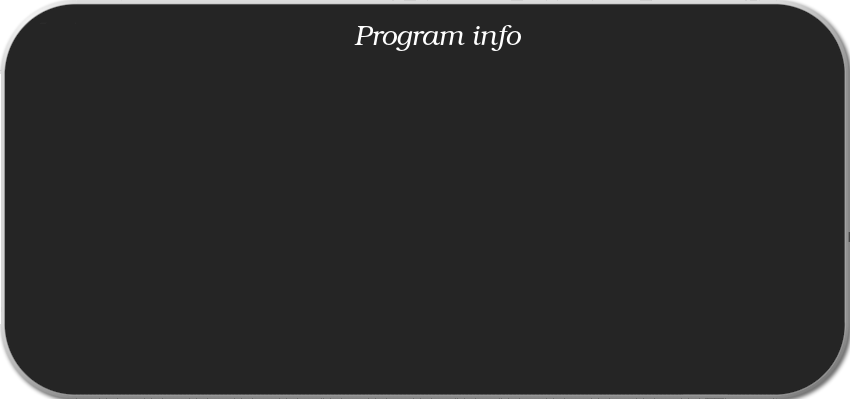
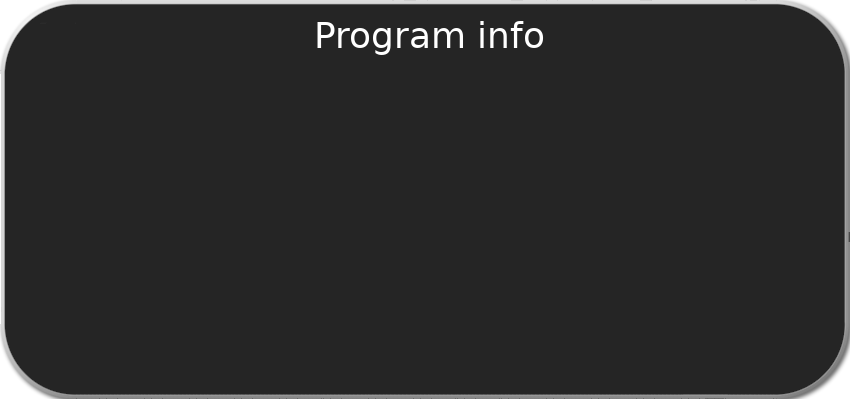
gfx updadte

Changed region(s): [[0.3671, 0.06, 0.6424, 0.15]]

diff --git a/main.cpp b/main.cpp
@@ -1106,9 +1106,10 @@ int parse_config(char *filename) {
                       if (strcmp(value,"true")==0) full_screen=true; else full_screen=false;
                     } else if (command_nr==setconfigdefaultmusicpath) {
                       strcpy(configdefaultmusicpath,value);
+                      strcpy(configmusicpath,value);
                     } else if (command_nr==setconfigdefaultmoviepath) {
                       strcpy(configdefaultmoviepath,value);
-                      strcpy(configmoviepath,configdefaultmoviepath);
+                      strcpy(configmoviepath,value);
                     }
 
                     // use 3d effect
@@ -2224,6 +2225,7 @@ void display() {
     static int starttimer=0;                                     // show logo timeout
     bool do_play_music_aktiv_nr_select_array[1000];             // array til at fortælle om sange i playlist askopendir er aktiv
     char temptxt[200];
+    char temprgtxt[2000];
     int i;
     struct tm *timeinfo;
     float mgrader,tgrader;
@@ -2818,7 +2820,7 @@ void display() {
         aktiv_tv_oversigt.show_fasttv_oversigt(tvvalgtrecordnr,tvsubvalgtrecordnr,do_update_xmltv_show);
 
 //        if (debugmode & 1 ) std::cout << "Time: " << (std::clock() - start) / (double)(CLOCKS_PER_SEC / 1000) << " ms" << " " << sizeof(tv_oversigt) << std::endl;
-        // show program info about selected program
+        // show tv program info about selected program
         if ((do_zoom_tvprg_aktiv_nr)>0) {
           glPushMatrix();
           // show info om program selected
@@ -2843,180 +2845,197 @@ void display() {
           glTexParameteri(GL_TEXTURE_2D, GL_TEXTURE_MAG_FILTER, GL_LINEAR);
           glColor3f(1.0f, 1.0f, 1.0f);
           //glBlendFunc(GL_ONE, GL_ONE);
+          glEnable(GL_BLEND);
           glBlendFunc(GL_SRC_ALPHA,GL_ONE_MINUS_SRC_ALPHA);
           glLoadName(81);
           glBegin(GL_QUADS);
           glTexCoord2f(0, 0); glVertex3f((orgwinsizex/3)+0, (orgwinsizey/4)+0, 0.0);
-          glTexCoord2f(0, 1); glVertex3f((orgwinsizex/3)+0, (orgwinsizey/4)+500, 0.0);
-          glTexCoord2f(1, 1); glVertex3f((orgwinsizex/3)+850, (orgwinsizey/4)+500, 0.0);
+          glTexCoord2f(0, 1); glVertex3f((orgwinsizex/3)+0, (orgwinsizey/4)+400, 0.0);
+          glTexCoord2f(1, 1); glVertex3f((orgwinsizex/3)+850, (orgwinsizey/4)+400, 0.0);
           glTexCoord2f(1, 0); glVertex3f((orgwinsizex/3)+850, (orgwinsizey/4)+0, 0.0);
           glEnd();
           glPopMatrix();
 
           glPushMatrix();
           switch (configland) {
-            case 0: sprintf(temptxt,"Channel  : %-10s",aktiv_tv_oversigt.tvkanaler[tvvalgtrecordnr].chanel_name);
+            case 0: snprintf(temprgtxt,65,"Channel  : %-10s",aktiv_tv_oversigt.tvkanaler[tvvalgtrecordnr].chanel_name);
                     break;
-            case 1: sprintf(temptxt,"Kanal    : %-10s",aktiv_tv_oversigt.tvkanaler[tvvalgtrecordnr].chanel_name);
+            case 1: snprintf(temprgtxt,65,"Kanal    : %-10s",aktiv_tv_oversigt.tvkanaler[tvvalgtrecordnr].chanel_name);
                     break;
-            case 2: sprintf(temptxt,"Channel  : %-10s",aktiv_tv_oversigt.tvkanaler[tvvalgtrecordnr].chanel_name);
+            case 2: snprintf(temprgtxt,65,"Channel  : %-10s",aktiv_tv_oversigt.tvkanaler[tvvalgtrecordnr].chanel_name);
                     break;
-            case 3: sprintf(temptxt,"Channel  : %-10s",aktiv_tv_oversigt.tvkanaler[tvvalgtrecordnr].chanel_name);
+            case 3: snprintf(temprgtxt,65,"Channel  : %-10s",aktiv_tv_oversigt.tvkanaler[tvvalgtrecordnr].chanel_name);
                     break;
-            case 4: sprintf(temptxt,"Channel  : %-10s",aktiv_tv_oversigt.tvkanaler[tvvalgtrecordnr].chanel_name);
-                    break;
-            default:
-                    sprintf(temptxt,"Channel  : %-10s",aktiv_tv_oversigt.tvkanaler[tvvalgtrecordnr].chanel_name);
-          }
-          glTranslatef(700,675, 0.0f);
-          glScalef(20.0, 20.0,1);
-          glBlendFunc(GL_ONE, GL_ONE);
-          glDisable(GL_TEXTURE_2D);
-          glcRenderString(temptxt);
-          glPopMatrix();
-
-          glPushMatrix();
-          switch (configland) {
-            case 0: sprintf(temptxt,"Prg name : %-20s",aktiv_tv_oversigt.tvkanaler[tvvalgtrecordnr].tv_prog_guide[tvsubvalgtrecordnr].program_navn);
-                    break;
-            case 1: sprintf(temptxt,"Prg navn : %-20s",aktiv_tv_oversigt.tvkanaler[tvvalgtrecordnr].tv_prog_guide[tvsubvalgtrecordnr].program_navn);
-                    break;
-            case 2: sprintf(temptxt,"Prg name : %-20s",aktiv_tv_oversigt.tvkanaler[tvvalgtrecordnr].tv_prog_guide[tvsubvalgtrecordnr].program_navn);
-                    break;
-            case 3: sprintf(temptxt,"Prg name : %-20s",aktiv_tv_oversigt.tvkanaler[tvvalgtrecordnr].tv_prog_guide[tvsubvalgtrecordnr].program_navn);
-                    break;
-            case 4: sprintf(temptxt,"Prg name : %-20s",aktiv_tv_oversigt.tvkanaler[tvvalgtrecordnr].tv_prog_guide[tvsubvalgtrecordnr].program_navn);
+            case 4: snprintf(temprgtxt,65,"Channel  : %-10s",aktiv_tv_oversigt.tvkanaler[tvvalgtrecordnr].chanel_name);
                     break;
             default:
-                  sprintf(temptxt,"Prg name : %-20s",aktiv_tv_oversigt.tvkanaler[tvvalgtrecordnr].tv_prog_guide[tvsubvalgtrecordnr].program_navn);
-          }
-          glTranslatef(700,625, 0.0f);
-          glScalef(20.0, 20.0,1);
-          glBlendFunc(GL_ONE, GL_ONE);
-          glDisable(GL_TEXTURE_2D);
-          glcRenderString(temptxt);
-          glPopMatrix();
-
-          glPushMatrix();
-          switch (configland) {
-            case 0: sprintf(temptxt,"Start    : %10s",aktiv_tv_oversigt.tvkanaler[tvvalgtrecordnr].tv_prog_guide[tvsubvalgtrecordnr].starttime);
-                    break;
-            case 1: sprintf(temptxt,"Start    : %10s",aktiv_tv_oversigt.tvkanaler[tvvalgtrecordnr].tv_prog_guide[tvsubvalgtrecordnr].starttime);
-                    break;
-            case 2: sprintf(temptxt,"début    : %10s",aktiv_tv_oversigt.tvkanaler[tvvalgtrecordnr].tv_prog_guide[tvsubvalgtrecordnr].starttime);
-                    break;
-            case 3: sprintf(temptxt,"Start    : %10s",aktiv_tv_oversigt.tvkanaler[tvvalgtrecordnr].tv_prog_guide[tvsubvalgtrecordnr].starttime);
-                    break;
-            case 4: sprintf(temptxt,"Start    : %10s",aktiv_tv_oversigt.tvkanaler[tvvalgtrecordnr].tv_prog_guide[tvsubvalgtrecordnr].starttime);
-                    break;
-            default:sprintf(temptxt,"Start    : %10s",aktiv_tv_oversigt.tvkanaler[tvvalgtrecordnr].tv_prog_guide[tvsubvalgtrecordnr].starttime);
-
-          }
-          glTranslatef(700,600, 0.0f);
-          glScalef(20.0, 20.0,1);
-          glBlendFunc(GL_ONE, GL_ONE);
-          glDisable(GL_TEXTURE_2D);
-          glcRenderString(temptxt);
-          glPopMatrix();
-
-
-          glPushMatrix();
-          switch (configland) {
-            case 0: sprintf(temptxt,"Length   : %d min.",aktiv_tv_oversigt.tvkanaler[tvvalgtrecordnr].tv_prog_guide[tvsubvalgtrecordnr].program_length_minuter);
-                    break;
-            case 1: sprintf(temptxt,"Længde   : %d min.",aktiv_tv_oversigt.tvkanaler[tvvalgtrecordnr].tv_prog_guide[tvsubvalgtrecordnr].program_length_minuter);
-                    break;
-            case 2: sprintf(temptxt,"durée du : %d min.",aktiv_tv_oversigt.tvkanaler[tvvalgtrecordnr].tv_prog_guide[tvsubvalgtrecordnr].program_length_minuter);
-                    break;
-            case 3: sprintf(temptxt,"Programmlänge : %d min.",aktiv_tv_oversigt.tvkanaler[tvvalgtrecordnr].tv_prog_guide[tvsubvalgtrecordnr].program_length_minuter);
-                    break;
-            case 4: sprintf(temptxt,"Length   : %d min.",aktiv_tv_oversigt.tvkanaler[tvvalgtrecordnr].tv_prog_guide[tvsubvalgtrecordnr].program_length_minuter);
-                    break;
-            default:
-                    sprintf(temptxt,"Length   : %d min.",aktiv_tv_oversigt.tvkanaler[tvvalgtrecordnr].tv_prog_guide[tvsubvalgtrecordnr].program_length_minuter);
+                    sprintf(temprgtxt,"Channel  : %-10s",aktiv_tv_oversigt.tvkanaler[tvvalgtrecordnr].chanel_name);
           }
           glTranslatef(700,575, 0.0f);
           glScalef(20.0, 20.0,1);
           glBlendFunc(GL_ONE, GL_ONE);
           glDisable(GL_TEXTURE_2D);
-          glcRenderString(temptxt);
+          glcRenderString(temprgtxt);
+          glPopMatrix();
+
+          glPushMatrix();
+          switch (configland) {
+            case 0: snprintf(temprgtxt,65,"Prg name : %-20s",aktiv_tv_oversigt.tvkanaler[tvvalgtrecordnr].tv_prog_guide[tvsubvalgtrecordnr].program_navn);
+                    break;
+            case 1: snprintf(temprgtxt,65,"Prg navn : %-20s",aktiv_tv_oversigt.tvkanaler[tvvalgtrecordnr].tv_prog_guide[tvsubvalgtrecordnr].program_navn);
+                    break;
+            case 2: snprintf(temprgtxt,65,"Prg name : %-20s",aktiv_tv_oversigt.tvkanaler[tvvalgtrecordnr].tv_prog_guide[tvsubvalgtrecordnr].program_navn);
+                    break;
+            case 3: snprintf(temprgtxt,65,"Prg name : %-20s",aktiv_tv_oversigt.tvkanaler[tvvalgtrecordnr].tv_prog_guide[tvsubvalgtrecordnr].program_navn);
+                    break;
+            case 4: snprintf(temprgtxt,65,"Prg name : %-20s",aktiv_tv_oversigt.tvkanaler[tvvalgtrecordnr].tv_prog_guide[tvsubvalgtrecordnr].program_navn);
+                    break;
+            default:
+                  snprintf(temprgtxt,65,"Prg name : %-20s",65,aktiv_tv_oversigt.tvkanaler[tvvalgtrecordnr].tv_prog_guide[tvsubvalgtrecordnr].program_navn);
+          }
+          glTranslatef(700,525, 0.0f);
+          glScalef(20.0, 20.0,1);
+          glBlendFunc(GL_ONE, GL_ONE);
+          glDisable(GL_TEXTURE_2D);
+          glcRenderString(temprgtxt);
+          glPopMatrix();
+
+          glPushMatrix();
+          switch (configland) {
+            case 0: snprintf(temprgtxt,65,"Start    : %10s",aktiv_tv_oversigt.tvkanaler[tvvalgtrecordnr].tv_prog_guide[tvsubvalgtrecordnr].starttime);
+                    break;
+            case 1: snprintf(temprgtxt,65,"Start    : %10s",aktiv_tv_oversigt.tvkanaler[tvvalgtrecordnr].tv_prog_guide[tvsubvalgtrecordnr].starttime);
+                    break;
+            case 2: snprintf(temprgtxt,65,"début    : %10s",aktiv_tv_oversigt.tvkanaler[tvvalgtrecordnr].tv_prog_guide[tvsubvalgtrecordnr].starttime);
+                    break;
+            case 3: snprintf(temprgtxt,65,"Start    : %10s",aktiv_tv_oversigt.tvkanaler[tvvalgtrecordnr].tv_prog_guide[tvsubvalgtrecordnr].starttime);
+                    break;
+            case 4: snprintf(temprgtxt,65,"Start    : %10s",aktiv_tv_oversigt.tvkanaler[tvvalgtrecordnr].tv_prog_guide[tvsubvalgtrecordnr].starttime);
+                    break;
+            default:snprintf(temprgtxt,65,"Start    : %10s",aktiv_tv_oversigt.tvkanaler[tvvalgtrecordnr].tv_prog_guide[tvsubvalgtrecordnr].starttime);
+
+          }
+          glTranslatef(700,500, 0.0f);
+          glScalef(20.0, 20.0,1);
+          glBlendFunc(GL_ONE, GL_ONE);
+          glDisable(GL_TEXTURE_2D);
+          glcRenderString(temprgtxt);
+          glPopMatrix();
+
+
+          glPushMatrix();
+          switch (configland) {
+            case 0: snprintf(temprgtxt,65,"Length   : %d min.",aktiv_tv_oversigt.tvkanaler[tvvalgtrecordnr].tv_prog_guide[tvsubvalgtrecordnr].program_length_minuter);
+                    break;
+            case 1: snprintf(temprgtxt,65,"Længde   : %d min.",aktiv_tv_oversigt.tvkanaler[tvvalgtrecordnr].tv_prog_guide[tvsubvalgtrecordnr].program_length_minuter);
+                    break;
+            case 2: snprintf(temprgtxt,65,"durée du : %d min.",aktiv_tv_oversigt.tvkanaler[tvvalgtrecordnr].tv_prog_guide[tvsubvalgtrecordnr].program_length_minuter);
+                    break;
+            case 3: snprintf(temprgtxt,65,"Programmlänge : %d min.",aktiv_tv_oversigt.tvkanaler[tvvalgtrecordnr].tv_prog_guide[tvsubvalgtrecordnr].program_length_minuter);
+                    break;
+            case 4: snprintf(temprgtxt,65,"Length   : %d min.",aktiv_tv_oversigt.tvkanaler[tvvalgtrecordnr].tv_prog_guide[tvsubvalgtrecordnr].program_length_minuter);
+                    break;
+            default:
+                    snprintf(temprgtxt,65,"Length   : %d min.",aktiv_tv_oversigt.tvkanaler[tvvalgtrecordnr].tv_prog_guide[tvsubvalgtrecordnr].program_length_minuter);
+          }
+          glTranslatef(700,475, 0.0f);
+          glScalef(20.0, 20.0,1);
+          glBlendFunc(GL_ONE, GL_ONE);
+          glDisable(GL_TEXTURE_2D);
+          glcRenderString(temprgtxt);
           glPopMatrix();
 
 
           glPushMatrix();
           if (antalrec==-1) antalrec=aktiv_tv_oversigt.tvprgrecordedbefore(aktiv_tv_oversigt.tvkanaler[tvvalgtrecordnr].tv_prog_guide[tvsubvalgtrecordnr].program_navn,aktiv_tv_oversigt.tvkanaler[tvvalgtrecordnr].chanid);
           switch (configland) {
-            case 0: sprintf(temptxt,"recorded : %d times before.",antalrec);
+            case 0: snprintf(temprgtxt,65,"Recorded : %d times before.",antalrec);
                     break;
-            case 1: sprintf(temptxt,"optaget  : %d gange før.",antalrec);
+            case 1: snprintf(temprgtxt,65,"Optaget  : %d gange før.",antalrec);
                     break;
-            case 2: sprintf(temptxt,"recorded : %d times before.",antalrec);
+            case 2: snprintf(temprgtxt,65,"Recorded : %d times before.",antalrec);
                     break;
-            case 3: sprintf(temptxt,"recorded : %d times before.",antalrec);
+            case 3: snprintf(temprgtxt,65,"Recorded : %d times before.",antalrec);
                     break;
-            case 4: sprintf(temptxt,"recorded : %d times before.",antalrec);
+            case 4: snprintf(temprgtxt,65,"Recorded : %d times before.",antalrec);
                     break;
-            default: sprintf(temptxt,"recorded : %d times before.",antalrec);
+            default: snprintf(temprgtxt,65,"Recorded : %d times before.",antalrec);
 
           }
-          if (aktiv_tv_oversigt.tvkanaler[tvvalgtrecordnr].tv_prog_guide[tvsubvalgtrecordnr].recorded) strcat(temptxt," Set to record");
-          glTranslatef(700,550, 0.0f);
+          if (aktiv_tv_oversigt.tvkanaler[tvvalgtrecordnr].tv_prog_guide[tvsubvalgtrecordnr].recorded) strcat(temprgtxt," Set to record");
+          glTranslatef(700,450, 0.0f);
           glScalef(20.0, 20.0,1);
           glBlendFunc(GL_ONE, GL_ONE);
           glDisable(GL_TEXTURE_2D);
-          glcRenderString(temptxt);
+          glcRenderString(temprgtxt);
           glPopMatrix();
 
 
 
           glPushMatrix();
           if (aktiv_tv_oversigt.tvkanaler[tvvalgtrecordnr].tv_prog_guide[tvsubvalgtrecordnr].prg_type<=10)
-          sprintf(temptxt,"Type     : %-10s",prgtypee[aktiv_tv_oversigt.tvkanaler[tvvalgtrecordnr].tv_prog_guide[tvsubvalgtrecordnr].prg_type]);
-          else sprintf(temptxt,"Type     : %d nr  ",aktiv_tv_oversigt.tvkanaler[tvvalgtrecordnr].tv_prog_guide[tvsubvalgtrecordnr].prg_type);
-          glTranslatef(700,525, 0.0f);
+          sprintf(temprgtxt,"Type     : %-10s",prgtypee[aktiv_tv_oversigt.tvkanaler[tvvalgtrecordnr].tv_prog_guide[tvsubvalgtrecordnr].prg_type]);
+          else sprintf(temprgtxt,"Type     : %d nr  ",aktiv_tv_oversigt.tvkanaler[tvvalgtrecordnr].tv_prog_guide[tvsubvalgtrecordnr].prg_type);
+          glTranslatef(700,425, 0.0f);
           glScalef(20.0, 20.0,1);
           glBlendFunc(GL_ONE, GL_ONE);
           glDisable(GL_TEXTURE_2D);
-          glcRenderString(temptxt);
+          glcRenderString(temprgtxt);
           glPopMatrix();
 
           glPushMatrix();
           switch (configland) {
-            case 0: sprintf(temptxt,"Description : %s",aktiv_tv_oversigt.tvkanaler[tvvalgtrecordnr].tv_prog_guide[tvsubvalgtrecordnr].description);
+            case 0: sprintf(temprgtxt,"Description : ");
                     break;
-            case 1: sprintf(temptxt,"Beskrivelse : %s",aktiv_tv_oversigt.tvkanaler[tvvalgtrecordnr].tv_prog_guide[tvsubvalgtrecordnr].description);
+            case 1: sprintf(temprgtxt,"Beskrivelse : ");
                     break;
-            case 2: sprintf(temptxt,"Description : %s",aktiv_tv_oversigt.tvkanaler[tvvalgtrecordnr].tv_prog_guide[tvsubvalgtrecordnr].description);
+            case 2: sprintf(temprgtxt,"Description : ");
                     break;
-            case 3: sprintf(temptxt,"Description : %s",aktiv_tv_oversigt.tvkanaler[tvvalgtrecordnr].tv_prog_guide[tvsubvalgtrecordnr].description);
+            case 3: sprintf(temprgtxt,"Description : ");
                     break;
-            case 4: sprintf(temptxt,"Description : %s",aktiv_tv_oversigt.tvkanaler[tvvalgtrecordnr].tv_prog_guide[tvsubvalgtrecordnr].description);
+            case 4: sprintf(temprgtxt,"Description : ");
                     break;
-            default: sprintf(temptxt,"Description : %s",aktiv_tv_oversigt.tvkanaler[tvvalgtrecordnr].tv_prog_guide[tvsubvalgtrecordnr].description);
+            default: sprintf(temprgtxt,"Description :");
           }
-          glTranslatef(700,475, 0.0f);
+          glTranslatef(700,375, 0.0f);
           glScalef(20.0, 20.0,1);
           glBlendFunc(GL_ONE, GL_ONE);
           glDisable(GL_TEXTURE_2D);
-          glcRenderString(temptxt);
+          glcRenderString(temprgtxt);
           glPopMatrix();
 
-
+          // show description
           glPushMatrix();
+          snprintf(temprgtxt,65,"%s",aktiv_tv_oversigt.tvkanaler[tvvalgtrecordnr].tv_prog_guide[tvsubvalgtrecordnr].description);
+          glTranslatef(700,350, 0.0f);
+          glScalef(20.0, 20.0,1);
+          glBlendFunc(GL_ONE, GL_ONE);
+          glDisable(GL_TEXTURE_2D);
+          glcRenderString(temprgtxt);
+          glPopMatrix();
+
 
           if (strptime(aktiv_tv_oversigt.tvkanaler[tvvalgtrecordnr].tv_prog_guide[tvsubvalgtrecordnr].starttime,"%Y-%m-%d %H:%M:%S",&prgtidinfo)==NULL) {
               printf("RECORDED PROGRAM DATE FORMAT ERROR can't convert. by strptime\n");
           }
+          //
+          // can we record program
+          // if we can show icon for record
+          //
           prgtid=mktime(&prgtidinfo);
+          time(&aktueltid);					            // hent hvad klokken er
+          timeinfo=localtime(&aktueltid);				// convert to localtime
           if ((difftime(aktueltid,prgtid)<=0) && (aktiv_tv_oversigt.tvprgrecorded(aktiv_tv_oversigt.tvkanaler[tvvalgtrecordnr].tv_prog_guide[tvsubvalgtrecordnr].starttime,aktiv_tv_oversigt.tvkanaler[tvvalgtrecordnr].tv_prog_guide[tvsubvalgtrecordnr].program_navn,temptxt)==0)) {
-            // record button
+
+            glPushMatrix();
+            // close button
             xsiz=100;
             ysiz=100;
             xpos=((orgwinsizex/2)-xsiz/2)-200;
             ypos=((orgwinsizey/2)-ysiz/2)-200;
             xpos=10.0f;
             ypos=-50.0f;
-            glTranslatef(1300,400, 0.0f);
+            glTranslatef(1400,400, 0.0f);
             glBlendFunc(GL_SRC_ALPHA,GL_ONE_MINUS_SRC_ALPHA);
             glBindTexture(GL_TEXTURE_2D,_tvrecordbutton);
             glEnable(GL_TEXTURE_2D);
@@ -3027,27 +3046,9 @@ void display() {
             glTexCoord2f(1.0, 1.0); glVertex3f(xpos+xsiz-(xsiz/2), ypos+ysiz-(ysiz/2), 0.0);
             glTexCoord2f(1.0, 0.0); glVertex3f(xpos+xsiz-(xsiz/2), ypos-(ysiz/2), 0.0);
             glEnd(); //End quadrilateral coordinates
-
-            // close button
-            xsiz=100;
-            ysiz=100;
-            xpos=((orgwinsizex/2)-xsiz/2)-200;
-            ypos=((orgwinsizey/2)-ysiz/2)-200;
-            xpos=10.0f;
-            ypos=-50.0f;
-            glTranslatef(1400,400, 0.0f);
-            glBlendFunc(GL_SRC_ALPHA,GL_ONE_MINUS_SRC_ALPHA);
-            glBindTexture(GL_TEXTURE_2D,_textureclose);
-            glEnable(GL_TEXTURE_2D);
-            glLoadName(40);                                                           // func Set program to record.
-            glBegin(GL_QUADS);
-            glTexCoord2f(0.0, 0.0); glVertex3f(xpos-(xsiz/2), ypos-(ysiz/2), 0.0);
-            glTexCoord2f(0.0, 1.0); glVertex3f(xpos-(xsiz/2), ypos+ysiz-(ysiz/2), 0.0);
-            glTexCoord2f(1.0, 1.0); glVertex3f(xpos+xsiz-(xsiz/2), ypos+ysiz-(ysiz/2), 0.0);
-            glTexCoord2f(1.0, 0.0); glVertex3f(xpos+xsiz-(xsiz/2), ypos-(ysiz/2), 0.0);
-            glEnd(); //End quadrilateral coordinates
-
+            glPopMatrix();
           } else {
+            glPushMatrix();
             // close button
             xsiz=100;
             ysiz=100;
@@ -3067,8 +3068,8 @@ void display() {
             glTexCoord2f(1.0, 1.0); glVertex3f(xpos+xsiz-(xsiz/2), ypos+ysiz-(ysiz/2), 0.0);
             glTexCoord2f(1.0, 0.0); glVertex3f(xpos+xsiz-(xsiz/2), ypos-(ysiz/2), 0.0);
             glEnd(); //End quadrilateral coordinates
+            glPopMatrix();
           }
-          glPopMatrix();
 
           glPopMatrix();
         }

diff --git a/myth_setup.cpp b/myth_setup.cpp
@@ -1694,7 +1694,7 @@ void show_setup_sound() {
 //
 // *********************************** setup sql database info ***********************************************
 // db mythtv or xbmc ok
-//
+// backend
 
 void show_setup_sql() {
     char text[200];
